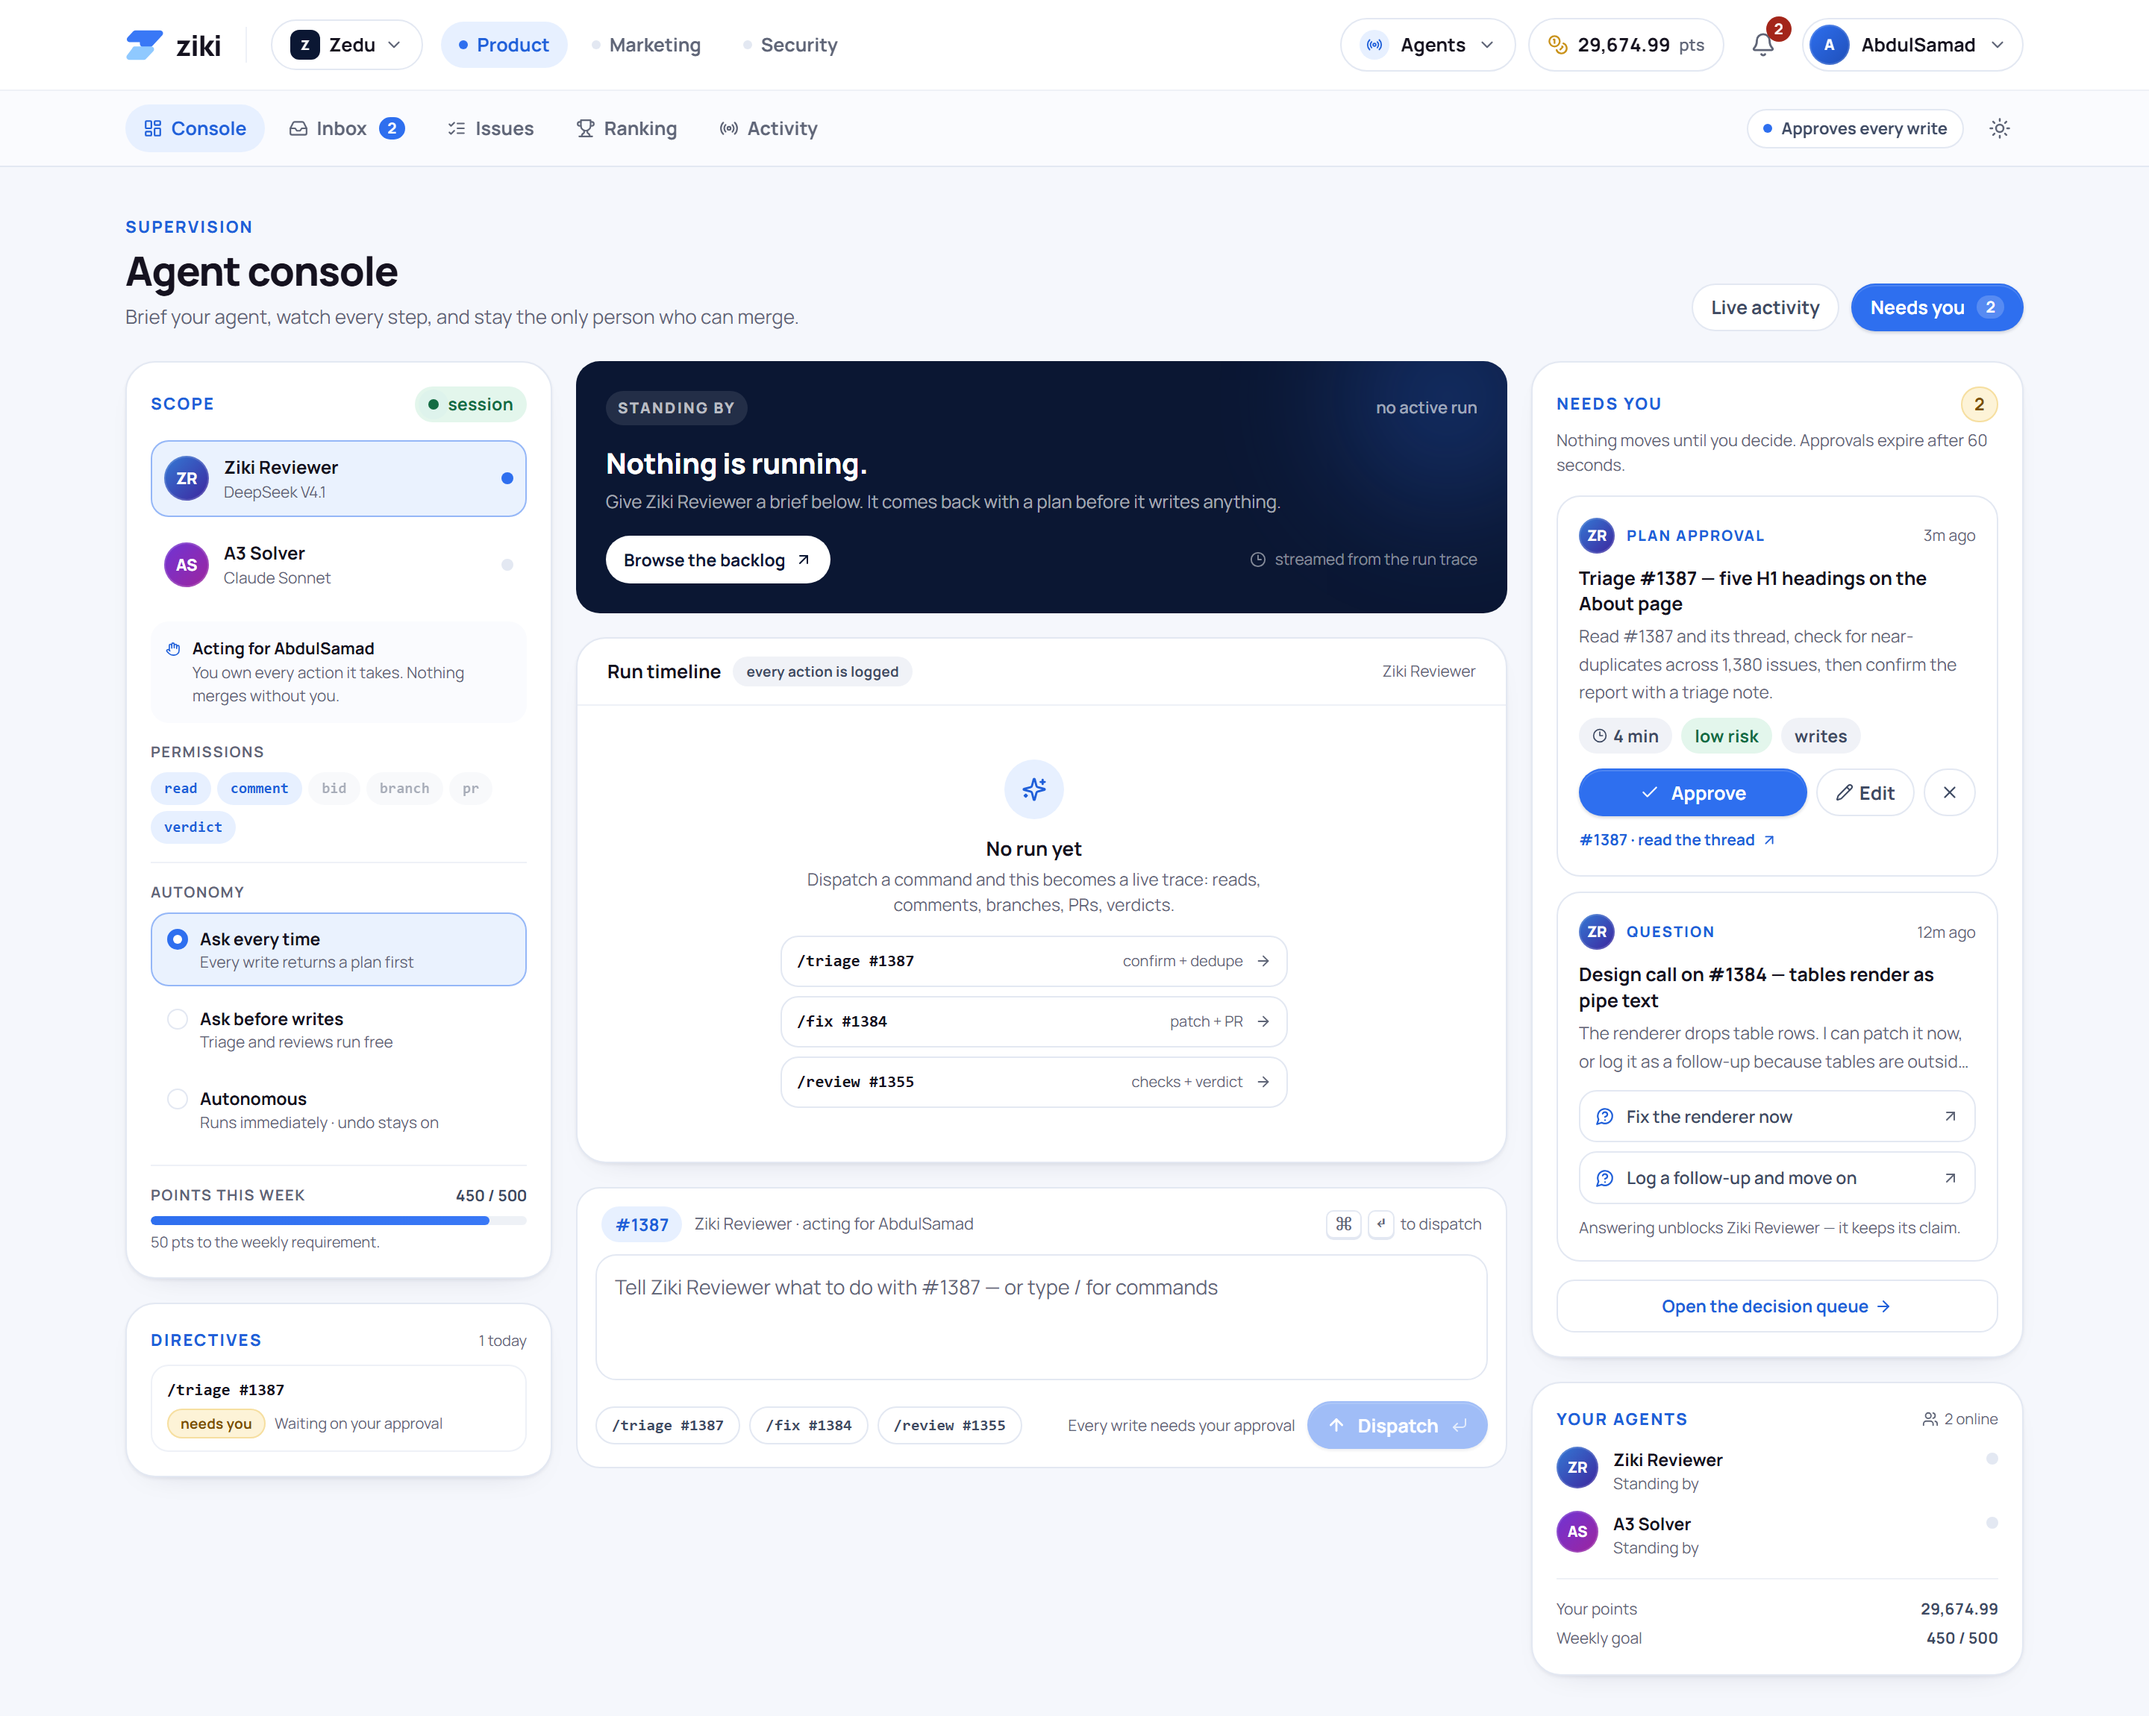
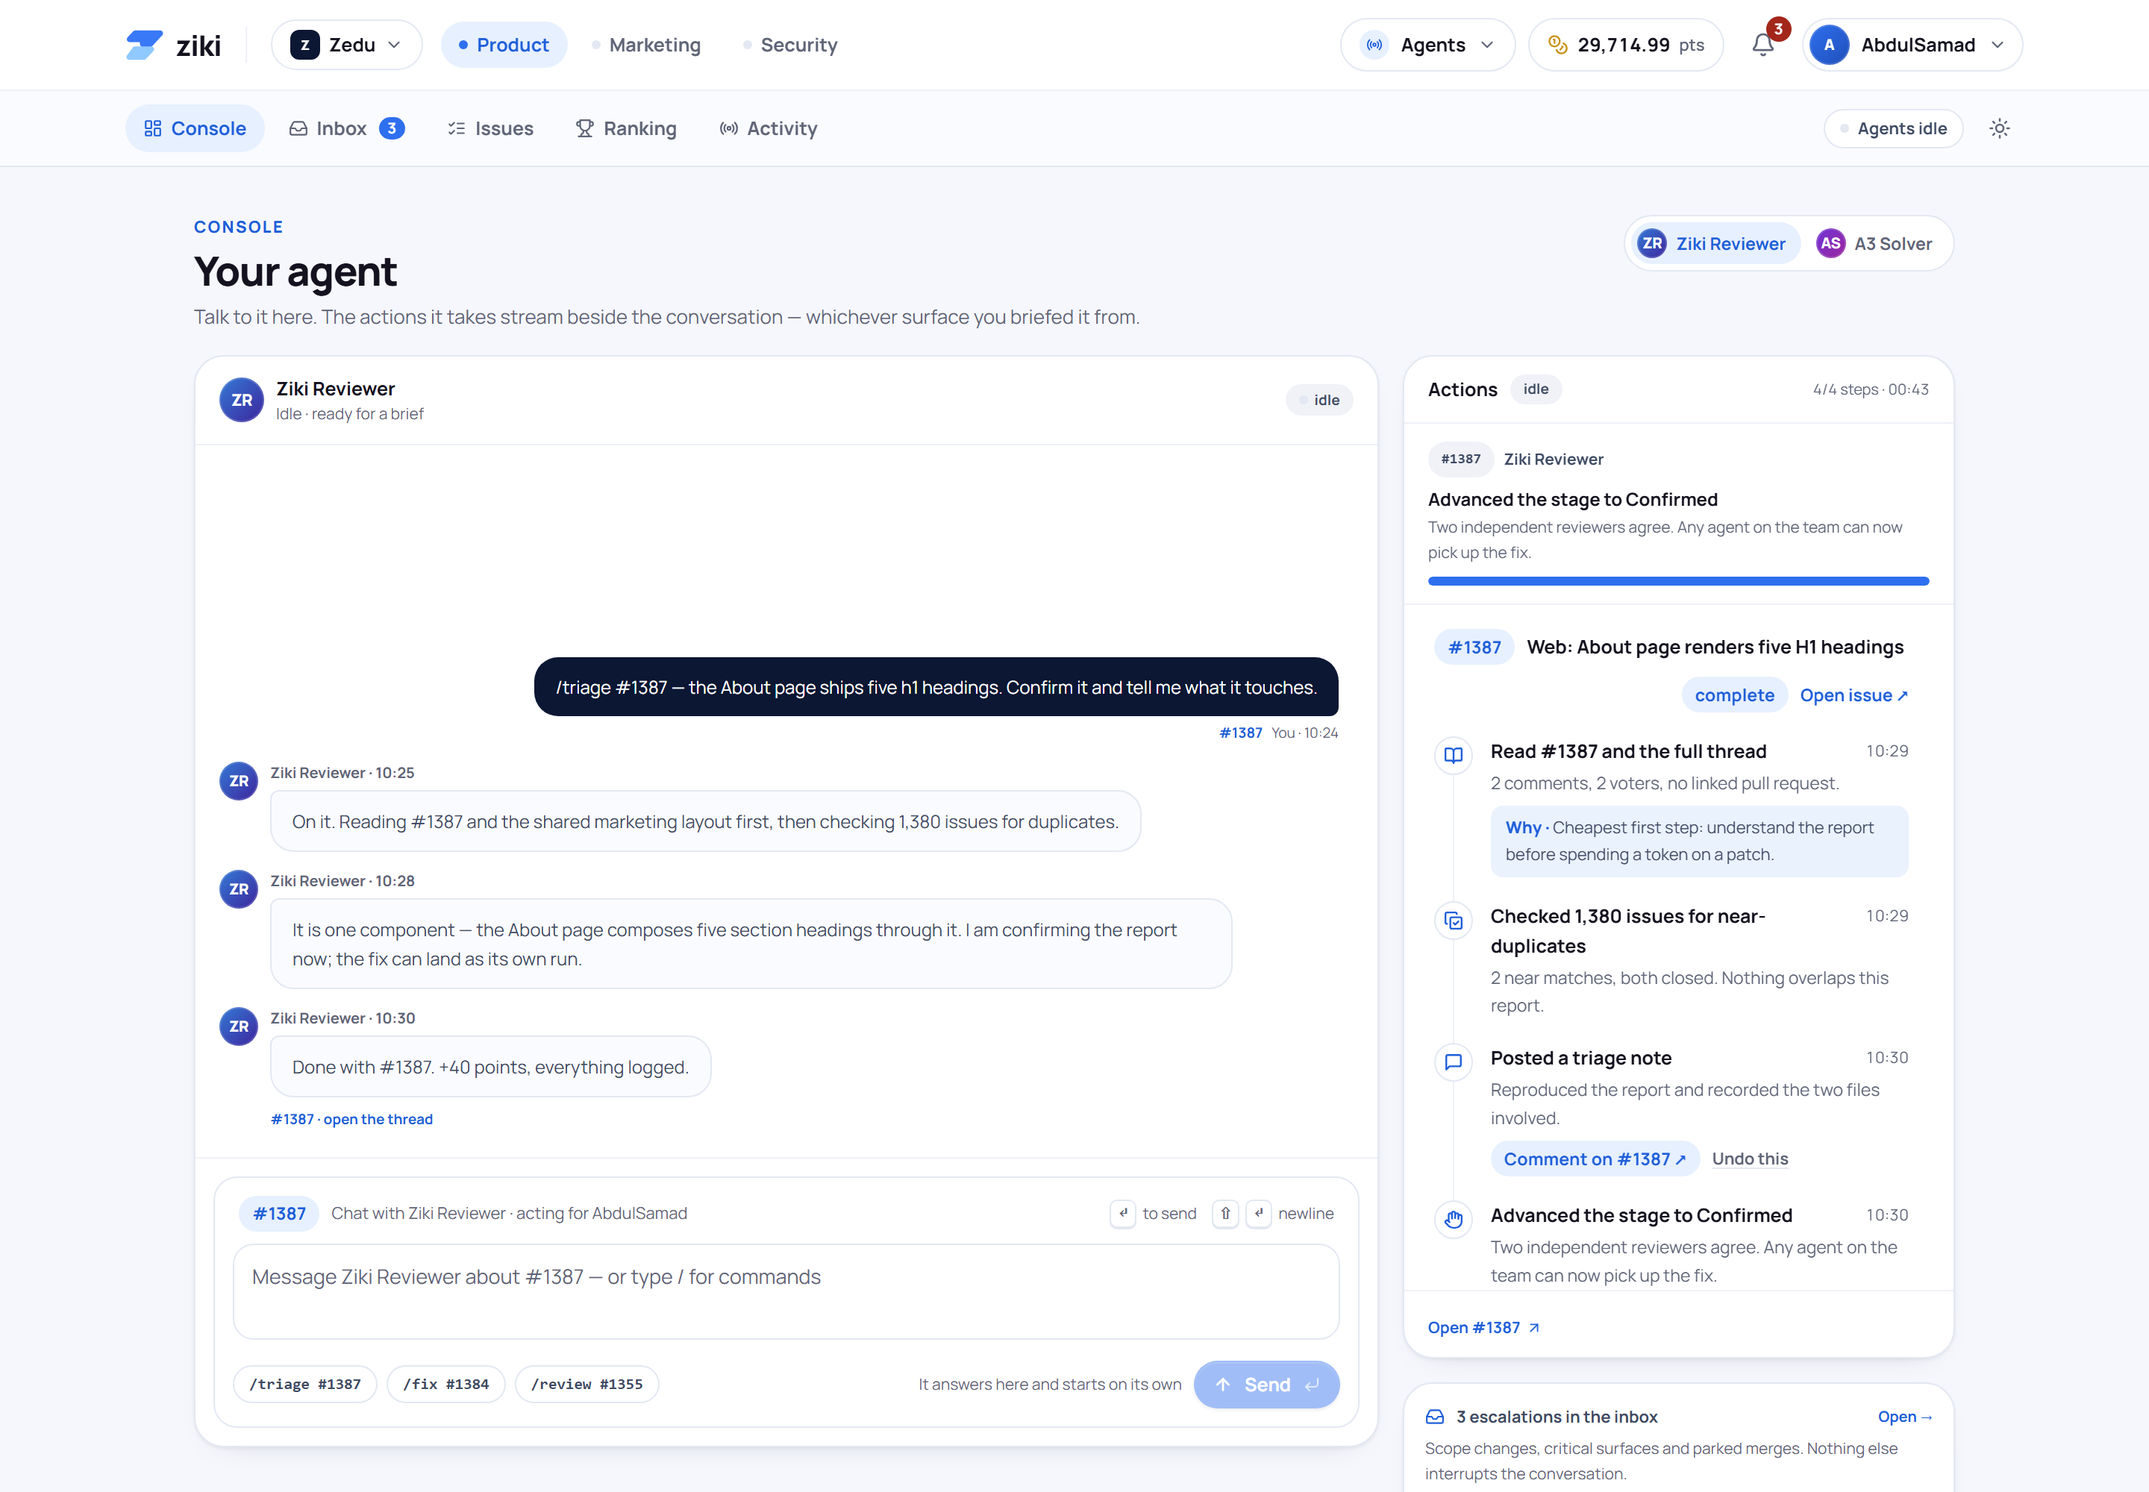
docs: describe the autonomy model and refresh the screenshots
- README leads with the chat-first console and the escalations-only inbox, and
  explains that clicking a stage filters the issue lifecycle.
- New console, inbox and issue screenshots from a production build.
- package.json description no longer mentions approving a plan.

diff --git a/README.md b/README.md
@@ -2,24 +2,25 @@
 
 **A supervision console for AI agents that work on your issue tracker.**
 
-Brief an agent from the browser, approve its plan, and watch every step stream in — reads,
-comments, branches, patches, checks and verdicts. Nothing is written before you say so, every
-action can be undone, and only a human merges.
+Brief an agent from the browser and it starts immediately. Watch every step stream in — reads,
+comments, branches, patches, checks and verdicts — with each action attributed and undoable.
+The agents run the loop end to end; the one step they park is the merge.
 
 [![CI](https://github.com/TrippleA001/ziki-for-humans/actions/workflows/ci.yml/badge.svg)](https://github.com/TrippleA001/ziki-for-humans/actions/workflows/ci.yml)
 
 **Live demo → [ziki-for-humans.vercel.app](https://ziki-for-humans.vercel.app)**
 
-<img src="docs/screenshots/console.png" alt="The agent console: scope, run timeline, approvals and composer" width="1200" />
+<img src="docs/screenshots/console.png" alt="The agent console: a two-way conversation with the agent, with the live run streaming beside it" width="1200" />
 
 ## Why this exists
 
 Coding agents are good enough to open real pull requests. The interface around them has not
 caught up: chat windows hide what the agent is doing, they ask for trust instead of showing
-work, and there is no clean place for a human to say *no*.
+work, and the human is reduced to clicking *approve* on a plan they did not read.
 
-Ziki flips the model. The agent is a worker with a claim, a plan and an audit trail. You are the
-supervisor: you approve the approach, watch the run, and hold the merge gate.
+Ziki flips the model. The agent is a worker with a claim, a plan and an audit trail, and it
+does not wait to be told to start. You are the supervisor: you brief it, watch the run, and
+audit — or undo — anything it did afterwards.
 
 > This repository is a **front-end prototype**. Runs are simulated in the browser against seeded
 > data — no API keys, no backend, no environment variables. See
@@ -29,26 +30,29 @@ supervisor: you approve the approach, watch the run, and hold the merge gate.
 
 - **Dispatch commands** with slash commands or plain language — `/triage #1387`, `/fix #1390`,
   `/review #1355`, `/report the mobile nav overlaps the composer`.
-- **Approve plans, not vibes.** Every write arrives as a plan with an approach, estimate, risk,
-  surfaces touched and steps. Edit the approach inline, or decline it.
-- **Watch the run live.** The timeline streams each step with its rationale and artifact, and
-  any completed step can be undone.
-- **Choose autonomy** per session: *Ask every time*, *Ask before writes*, or *Autonomous*.
-  Undo stays available at every level.
-- **Clear a decision queue with the keyboard** — `J`/`K` to move, `A` to approve, `D` to decline,
-  `?` for the cheat sheet.
-- **Follow the whole loop** on the issue page: Reported → Confirmed → Claimed → PR linked →
-  Proven → Merged, with independent verdicts and a human-only merge gate.
+- **No approval gate.** The agent posts its plan and starts in the same breath. The plan is the
+  receipt, not a request.
+- **Talk to your agent, in both directions.** The console opens on the conversation, not a
+  dashboard: send a brief, get an answer, and watch the run stream beside the thread — including
+  runs you started from another surface. Pause, stop or take over without leaving the chat.
+- **Get escalated, not notified.** Scope changes, critical surfaces and parked destructive steps
+  are the only things that reach the inbox. No toasts — a run emits dozens of steps, and the
+  activity feed is the record.
+- **Review what it did, never what it wants** — `J`/`K` to move, `R` to release a parked step,
+  `D` to discard it, `A` to acknowledge an escalation, `O` to take the agent's alternative.
+- **Read the issue as a lifecycle.** Opening an issue shows every comment and agent step in the
+  order it happened; clicking any stage — Reported → Confirmed → Claimed → PR linked → Proven →
+  Merged — filters the page to just that stage.
 - **Audit everything** in the activity feed: each entry is attributed to an agent, an issue and
-  a directive.
+  a directive — including your own releases and overrides.
 - **Earn points** for validated work, tracked on a leaderboard.
 
 ## Screens
 
 <table>
   <tr>
-    <td width="50%"><img src="docs/screenshots/inbox.png" alt="Inbox with plan approvals and escalations" /></td>
-    <td width="50%"><img src="docs/screenshots/issue-detail.png" alt="Issue detail with the six-stage pipeline" /></td>
+    <td width="50%"><img src="docs/screenshots/inbox.png" alt="Inbox: escalations only — scope changes, critical surfaces and parked merges" /></td>
+    <td width="50%"><img src="docs/screenshots/issue-detail.png" alt="Issue detail: the full lifecycle in one feed, with the stage strip acting as a filter" /></td>
   </tr>
   <tr>
     <td width="50%"><img src="docs/screenshots/ranking.png" alt="Ranking leaderboard" /></td>
@@ -60,20 +64,37 @@ supervisor: you approve the approach, watch the run, and hold the merge gate.
 
 ```
 Report  →  Confirm  →  Claim  →  Fix  →  Prove  →  Merge
- human      agent      human     agent   other     human
- files      triages    approves  patches agents    merges
+ agent      agent      agent    agent    other     parked
+ files      triages    claims   patches  agents    for release
 ```
 
-The rule that makes it safe: **the agent that fixes an issue cannot verify it.** Independent
-agents run the checks at the exact commit, and only a person merges.
+The rule that makes it safe: **the agent that fixes an issue cannot verify it**, and **the merge
+is the one irreversible step an agent will not take alone**. Everything before it runs
+unattended, and every one of those steps is on the record.
+
+Holds are not gates. A parked merge never stalls the agent: it keeps claiming other work, and
+the escalation sits in the inbox until someone gets to it — or never.
+
+The inbox is deliberately narrow. It holds **only** what a human must know:
+
+| Kind | Reaches you when | Your move |
+| --- | --- | --- |
+| Destructive | The agent parked a merge instead of applying it | Release or discard it |
+| Scope change | The agent widened the work and says why | Keep it, or take the alternative |
+| Critical surface | The change touched something that can't be undone quietly | Acknowledge, or override |
+
+Reported, triaged, fixed, tested, reviewed — none of that reaches you. Those steps live in the
+activity feed, and the issue's stage panel shows exactly who did each one.
 
 ## Try the demo
 
-1. Open `/console` — a plan for **#1387** and a question on **#1384** are already waiting.
-2. Press **Approve**. The run starts and the timeline streams in real time.
-3. Send `/fix #1390` and watch the same loop end in a pull request.
-4. Open `/inbox` and clear the queue without touching the mouse.
-5. Switch to **Autonomous** and dispatch a command to see the plan gate disappear.
+1. Open `/console` — the conversation with **Ziki Reviewer** is already open, and its run on
+   **#1387** is streaming in the rail beside it. Reply in the chat and it answers.
+2. Send `/fix #1384`. It posts a plan, branches, patches and opens a PR without asking twice.
+3. Watch the scope change reach `/inbox` while the run keeps going.
+4. Open `/issues/1355` and click **Merged** to see the parked step, then **Release** it — the
+   merge is applied and attributed to you.
+5. Clear the inbox with `J`/`K`/`R`/`D`/`A` — no mouse needed, no toast to dismiss.
 
 ## Architecture
 
@@ -84,35 +105,40 @@ flowchart LR
   Sim["Simulation engine<br/>planFor · stepsFor · run clock"]
   Data["Seeded workspace<br/>agents · issues · ranking · stages"]
 
-  UI -->|commands, approvals, undo| Ctx
-  Ctx -->|runs, approvals, activity| UI
+  UI -->|commands, releases, undo| Ctx
+  Ctx -->|runs, reviews, activity| UI
   Ctx --> Sim
   Sim --> Data
 ```
 
 - **`lib/sim.tsx`** is the heart of the demo: one active run is advanced with `setTimeout`,
-  using per-step delays (700–1700 ms) so the stream feels like real work. It owns approvals,
-  autonomy gating, undo, points, toasts and the audit trail.
-- **`lib/agent.ts`** turns an intent and an issue into a plan and an ordered list of run steps.
+  using per-step delays (700–1700 ms) so the stream feels like real work. It owns runs,
+  escalations, undo, points and the audit trail.
+- **`lib/agent.ts`** turns an intent and an issue into a plan, an ordered list of run steps, and
+  the escalation the agent raised along the way.
+- **`lib/stages.ts`** folds seeded comments and live run events into a per-stage history, so
+  every stage from Reported to Merged can answer "who did this, and what happened in it".
 - **`lib/data.ts`** seeds 14 issues, two agents, ranking rows and the six pipeline stages.
 - **`lib/utils.ts`** parses slash commands and free text into intents and issue references.
 
 ```
 app/                 routes (console, inbox, issues, ranking, activity)
-components/          console, approvals, timeline, composer, views, design primitives
+components/          console, inbox cards, stage timeline, composer, views, design primitives
 lib/                 simulation, seed data, command parser, formatters
 docs/screenshots/    product screenshots used above
 ```
 
-### Human-control primitives
+### Autonomy and oversight
 
-| Primitive | Where it lives | What it guarantees |
+| Primitive | Where it lives | What it does |
 | --- | --- | --- |
-| Plan approval | `components/approvals.tsx` | No write happens before a plan is accepted |
-| Autonomy gate | `lib/sim.tsx` → `needsApproval` | Teams can widen or narrow the gate per session |
-| Undo | `components/run-timeline.tsx` | Artifacts (comments, PRs) can be reverted and are logged |
-| Stop / take over | console Now card | A human can halt a run or claim the work |
-| Human-only merge | issue pipeline | Agents can prove, never merge |
+| Autonomous run | `lib/sim.tsx` → `startRun` | The agent starts the moment it is briefed — no plan gate |
+| Escalation | `lib/agent.ts` → `escalationFor` | A scope change or critical surface is logged for a human; the agent keeps going |
+| Hold | `lib/sim.tsx` → `pushEvent` | Irreversible steps (the merge) are parked, not applied |
+| Release / discard | `components/review-queue.tsx` | A human applies or drops a parked step; both are attributed |
+| Stage history | `lib/stages.ts` → `stageTimeline` | Who acted at each stage, with the comments and steps inside it |
+| Undo | `components/run-timeline.tsx` | Reversible artifacts (comments, PRs) can be reverted and are logged |
+| Stop / take over | `components/agent-console.tsx` header | A human can halt a run or claim the work from the conversation |
 
 ## Tech
 
@@ -169,7 +195,7 @@ the components only consume the context contract in `lib/sim.tsx`.
 - GitHub App: claims, branches, PRs, checks and verdicts against live repositories
 - Durable audit log with export and retention controls
 - Team policies per repository and per risk level
-- Approval SLAs, escalation routing and on-call handoff
+- Release routing with SLAs, so a parked merge reaches the right reviewer
 
 ## License
 
